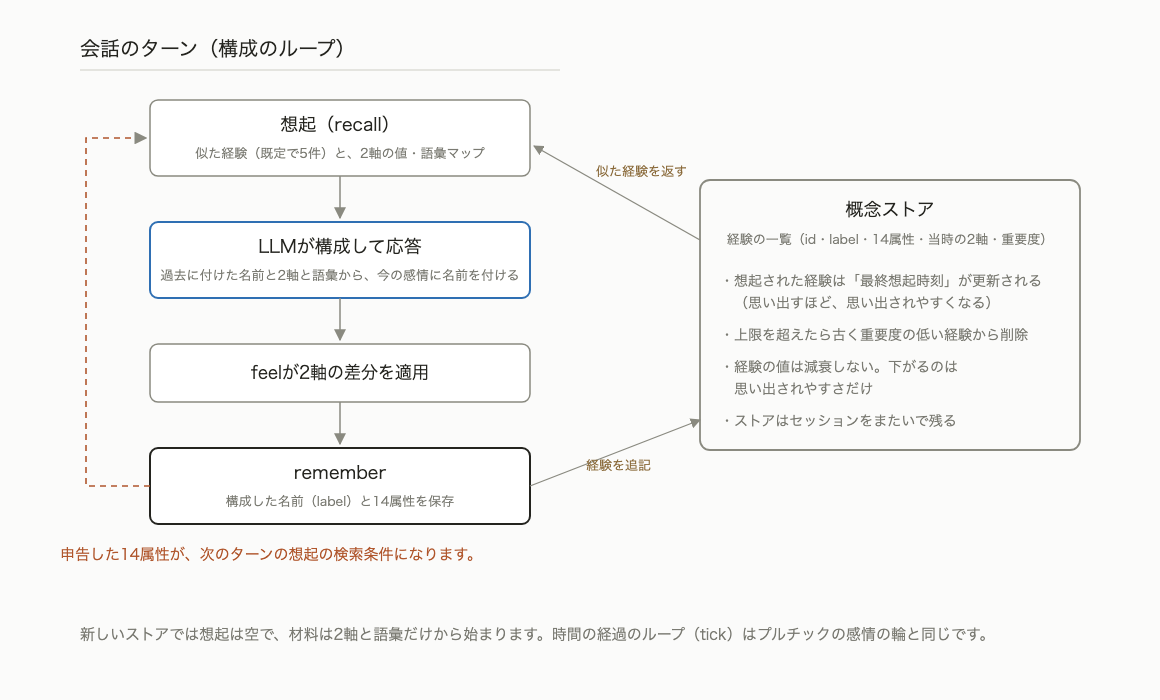
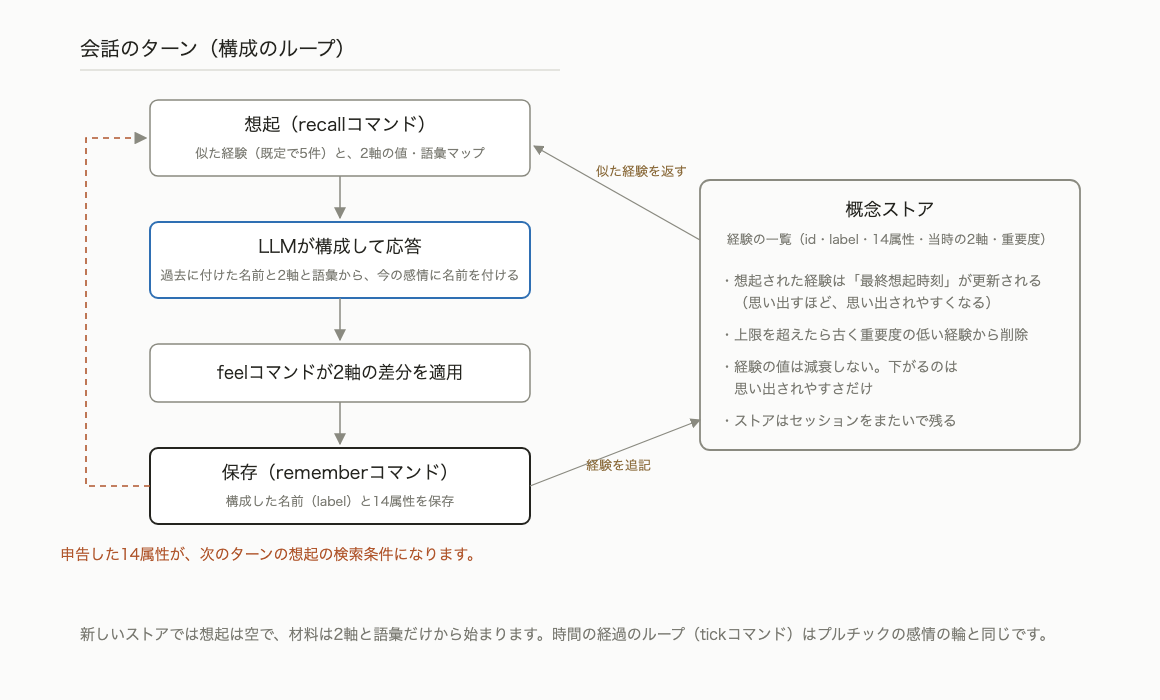
fix: コマンド名を単独で言うときはshowコマンドのように書く

diff --git a/.cadenza/state.md b/.cadenza/state.md
@@ -70,6 +70,7 @@
   15. **affectus の名前はリポジトリの紹介だけ（2026-10-05）**: 本文と図では「感情エンジン」と書く（コマンド例と設定ファイルのパスは除く）。比較条件は「感情エンジンあり」「感情エンジンなし」と省略せずに書き（ただし「感情エンジンあり・なしの2構成」のような並記は可・オーナー確認 2026-10-05）、数値の対比は「感情エンジンありが0.24で感情エンジンなしが0.34」のように何と何かを明示する
   16. **直前の言い切りを抽象的に言い直す付け足しの文を書かない（2026-10-06・「28語は8つの概念の間にも連続して並びます」に「AIっぽくてきもい」）**: 「〜は目印です」で言い終えたあとに、同じことを別の抽象語で補う文を足さない。補足が要るなら具体（語の例、数値、図のどこか）で書くか、書かない
   17. **章を番号や「前章」だけで指さない（2026-10-06）**: 「第4章と同じ」「前章の2軸」ではなく「プルチックの感情の輪の検証と同じ」「ラッセルの円環モデルの2軸」のようにモデル名か「感情モデルの整理」の章のように章のタイトルで指す。章末の「次章では〇〇を扱います」のように中身を書いた予告と、ch2の系統と章の対応表・4系統の図の章番号は残す
+  20. **コマンド名を地の文で単独で言うときは「showコマンド」と書く（2026-10-06 オーナー指示）**: 並べるときは「show・feel・tickの3つのコマンド」。図の中の文言も同じ。appraiseコマンドの項目のresolveや設定項目のrecall_kはコマンドではないのでそのまま。コードブロックとインラインコードは対象外
   19. **コメントへの対応だけで終えず、更新のたびに章の全文を本リストと照合する（2026-10-06・「チェックが足りていない」）**: オーナーの書き足しにも同じ基準を当て、鉤括弧の訳と脚注の原文、用語の一貫性、図の中の文言まで見る。ただし禁止語リストに加えるのはオーナーが指摘した語だけで、自分の判断で足さない（2026-10-06「かってにNGにするな」）
   18. **図や表を見れば分かることを本文に書かない（2026-10-06・「見ればわかることを書くな」）**: 図の構成の言い直し（「22のタイプは6つのグループにまとまります」）や、読者への見方の指図（「〜を押さえれば十分」「必要なときに図で確認してください」）は書かない。用語や名前を挙げるときは、なぜそれを挙げるのかを同じ文か直前の文で書く
 - **脚注の運用（全体方針・オーナー確定 2026-08-09・ch2 レビューで確立）**: 特定の文献に依拠する事実主張（論争の経緯・引用・意訳・理論の定義など）の初出に脚注を付ける。形式は「著者 (年). DOI または URL」。書誌の詳細は章末の参考文献リストが持ち、脚注は主張と出典の対応付けに徹する。同一文献が複数の主張の根拠になる場合は、同じ脚注ラベルを複数箇所から参照する形で再利用してよい（Zenn は同一ラベルの複数参照に対応）。意訳した場合は脚注内に原文の該当表現を示す。「〜と指摘しています」「〜と書いています」など文献の記述を伝聞形で紹介する箇所には、原文を脚注に入れる（オーナー指示 2026-08-10）。**原文を訳してそのまま示す部分は鉤括弧「」で括り、引用であることを本文上も明示する（オーナー指示 2026-08-26・全体適用）**。地の文に溶かした要約・言い換えには鉤括弧を使わない（鉤括弧＝引用の合図と紛れるため。強調目的の鉤括弧も引用と紛れる位置では避ける）。人名の単なる紹介には付けないが、特定の理論・論文への言及には付ける。既存章への遡及適用は各章のオーナーレビュー時に行う。

diff --git a/books/emotion-models-for-llm-agents/ch05-russell.md b/books/emotion-models-for-llm-agents/ch05-russell.md
@@ -48,7 +48,7 @@ fragment_file: ""
 
 プルチックの設定と比べると軸が2本になってoppositeの宣言がなくなり、軸ごとの値域を指定するrangeが加わっています。
 
-操作はプルチックの感情の輪と同じshow・feel・tickの3つです。
+操作はプルチックの感情の輪と同じshow・feel・tickの3つのコマンドです。
 
 ```sh
 $ affectus show
@@ -57,7 +57,7 @@ $ affectus feel '{"valence":0.4,"arousal":0.25}'
 {"valence":0.40,"arousal":0.25}
 ```
 
-何も起きていない状態はどちらの軸も基準値の0で、feelで申告した差分がそこに足されます。
+何も起きていない状態はどちらの軸も基準値の0で、feelコマンドで申告した差分がそこに足されます。
 
 なお設定は円環に関する情報を持ちません。円環は状態が平面上にどう分布するかについての理論上の主張で、個々の状態が守るべき制約ではないからです。論文自身も円について「円盤や車輪のほうがよいイメージだろう」と書いています[^disk-origin]。円環の情報はLLMへの指示文にだけ含めることとし、指示文は象限ごとの例語を示したうえで「名前を付けるのはあなた」「意味はすべて平面上の位置にある」と伝えています[^snippet-russell]。快が高く覚醒も高い状態を高揚と呼ぶか歓喜と呼ぶかは毎回LLMがコンテキストから判断します。
 また2軸にしたことで表せなくなったものもあります。嬉しさと寂しさが同居するほろ苦さのような対極の感情の両立は、1本の双極軸の上では打ち消し合って0付近の値になります。強い嬉しさと強い寂しさの同居と、どちらも感じていない状態を区別できないということになります。ただしこれは「感情の空間は双極であり、反意語はおよそ180度離れて位置する」という理論どおりの結果です[^bipolar]。

diff --git a/books/emotion-models-for-llm-agents/ch08-comparison.md b/books/emotion-models-for-llm-agents/ch08-comparison.md
@@ -115,7 +115,7 @@ title: "比較とまとめ"
 go install github.com/n-yokomachi/affectus/cmd/affectus@latest
 ```
 
-モデルはinitのときに選びます。何も指定しなければプルチックの感情の輪になります。
+モデルはinitコマンドで初期化するときに選びます。何も指定しなければプルチックの感情の輪になります。
 
 ```sh
 affectus init                  # プルチックの感情の輪
@@ -124,4 +124,4 @@ affectus init --model occ      # OCCモデル
 affectus init --model barrett  # バレットの構成主義的情動理論
 ```
 
-エージェントに組み込むときはリポジトリのexamplesにあるモデルごとの指示文をシステムプロンプトに入れます。時間による減衰のためにtickを定期実行します。MCPに対応したエージェントでは`affectus mcp`をMCPサーバーとして登録すると、プルチックとラッセルとOCCの3つのモデルを使えます。バレットの想起と保存はMCPに対応していないのでコマンドで使います。tickはMCPに含まれないので、MCPを使う場合も定期実行が必要です。
+エージェントに組み込むときはリポジトリのexamplesにあるモデルごとの指示文をシステムプロンプトに入れます。時間による減衰のためにtickコマンドを定期実行します。MCPに対応したエージェントでは`affectus mcp`をMCPサーバーとして登録すると、プルチックとラッセルとOCCの3つのモデルを使えます。バレットの想起と保存はMCPに対応していないのでコマンドで使います。tickコマンドはMCPに含まれないので、MCPを使う場合も定期実行が必要です。
